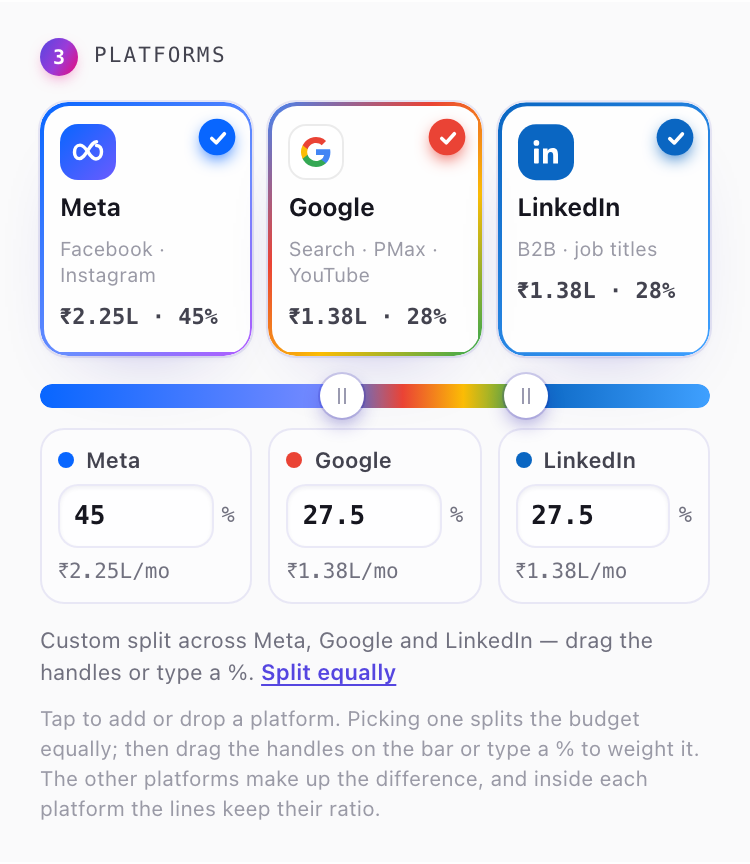
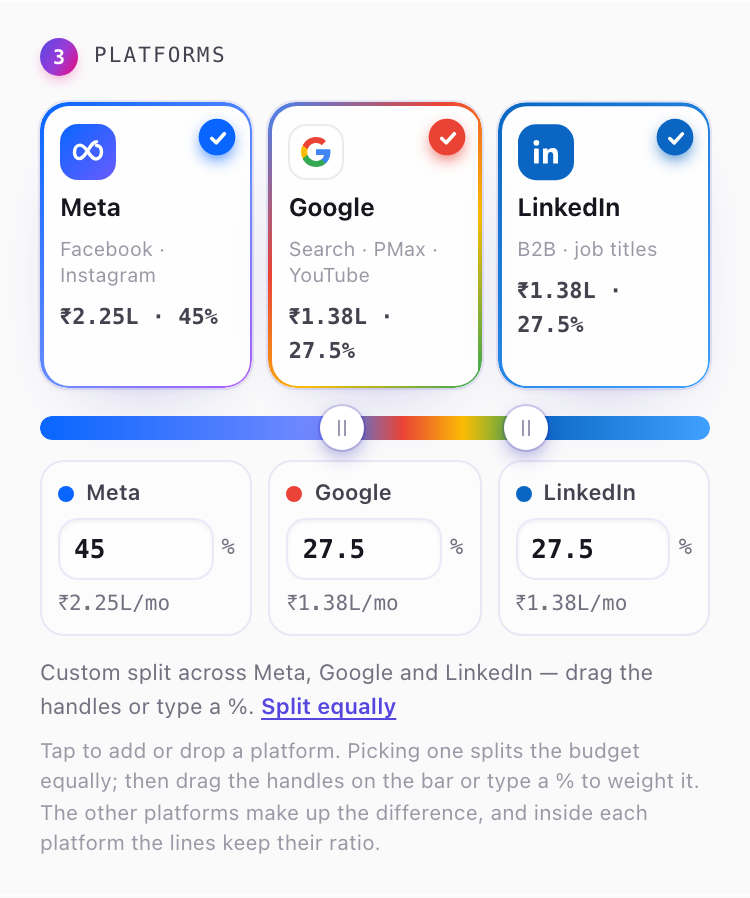
fix: show platform shares to one decimal so they add up

diff --git a/index.html b/index.html
@@ -1580,7 +1580,7 @@ function renderPlat(){
     const b=host.querySelector(`[data-p="${p}"]`), live=on.includes(p), sh=live?platShare(p):0;
     b.setAttribute("aria-pressed", live);
     b.setAttribute("aria-label", `${PLAT[p].label}: ${live?"on":"off"}`);
-    b.querySelector(".pa").textContent = live ? `${inr(S.budget*sh/100)} · ${sh.toFixed(0)}%` : "+ Add";
+    b.querySelector(".pa").textContent = live ? `${inr(S.budget*sh/100)} · ${+sh.toFixed(1)}%` : "+ Add";
     $(`#platBar [data-p="${p}"]`).style.flexGrow = live ? sh.toFixed(3) : "0";
   });
   const even = on.every(p=>Math.abs(platShare(p)-100/on.length)<0.6);
